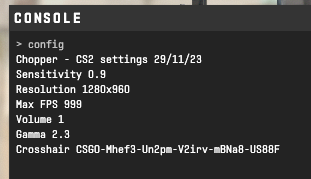
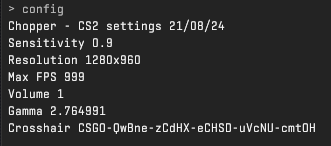
Revert to regular jump binds, update images

Changed region(s): [[0.0, 0.0, 1.0, 1.0]]

diff --git a/README.md b/README.md
@@ -8,7 +8,7 @@
 
  You may need to add `+exec autoexec.cfg` to your game launch options.
 
- **Last update**: 01/08/24
+ **Last update**: 21/08/24
 
  Crosshair code: `CSGO-QwBne-zCdHX-eCHSD-uVcNU-cmtOH`
 
